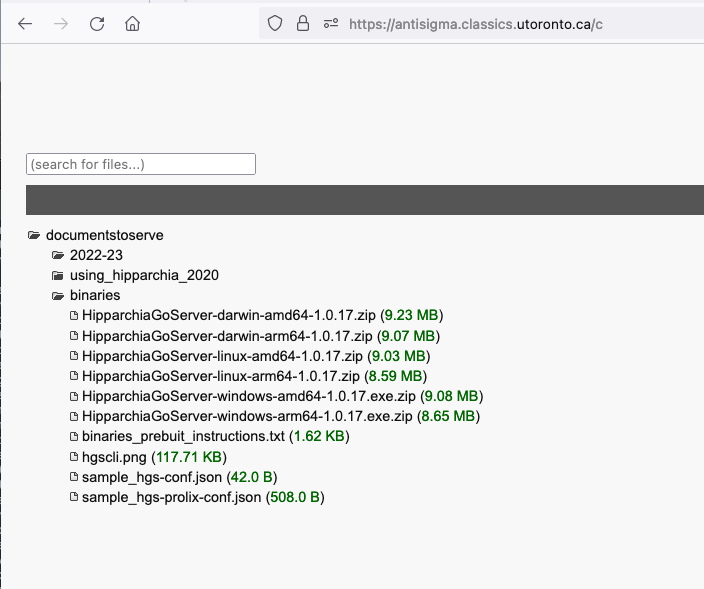
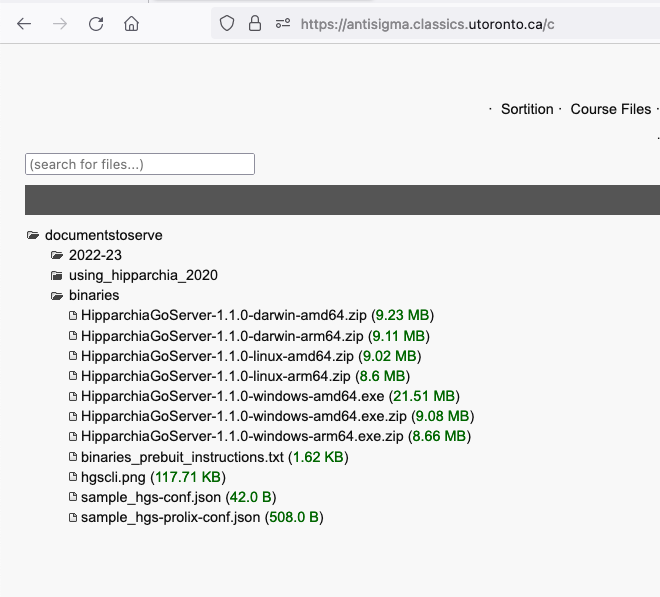
image update and corrections to instructions

diff --git a/initializedb.go b/initializedb.go
@@ -82,8 +82,9 @@ func findpsql() string {
 func hipparchiaDBexists(bindir string) bool {
 	if runtime.GOOS == "windows" {
 		msg("Self-initialization has not (yet?) been implemented for windows.", MSGCRIT)
-		msg("You need to follow the directions in the INSTALLATION file on github", MSGCRIT)
+		msg("If the database needs loading follow the directions in the INSTALLATION file on github", MSGCRIT)
 		msg("See https://github.com/e-gun/HipparchiaGoServer", MSGCRIT)
+		msg("Otherwise quit and relaunch", MSGCRIT)
 		// hang; do not exit because that will close the window and kill the message
 		for {
 		}

diff --git a/README.md b/README.md
@@ -41,8 +41,9 @@
 #### some selftest times
 * 64s on a mac studio
 * 113s on 6 cores of an intel 9900k running a virtualized ubuntu
+* 154s on 6 cores of apple silicon (m1) virtualizing macos
 * 349s on a mac mini 2018
-* 483s on 6 cores of apple silicon virtualizing windows 11 arm
+* 483s on 6 cores of apple silicon (m1) virtualizing windows 11 arm
 * 1144s (ouch) on a 2017 MacBook w/ 1.3GHz Core i5
 
 ![workflow](gitimg/hipparchia_workflow.svg)
@@ -51,17 +52,17 @@
 ```
 % cloc *go
 
-      33 text files.
-      33 unique files.                              
+      34 text files.
+      34 unique files.                              
        0 files ignored.
 
-github.com/AlDanial/cloc v 1.96  T=0.03 s (1161.9 files/s, 446516.4 lines/s)
+github.com/AlDanial/cloc v 1.96  T=0.03 s (1163.9 files/s, 440449.8 lines/s)
 -------------------------------------------------------------------------------
 Language                     files          blank        comment           code
 -------------------------------------------------------------------------------
-Go                              33           1907           1746           9029
+Go                              34           1940           1755           9171
 -------------------------------------------------------------------------------
-SUM:                            33           1907           1746           9029
+SUM:                            34           1940           1755           9171
 -------------------------------------------------------------------------------
 
 ```

diff --git a/INSTRUCTIONS/INSTALLATION_MACOS_RECOMMENDED.md b/INSTRUCTIONS/INSTALLATION_MACOS_RECOMMENDED.md
@@ -24,13 +24,13 @@
 
 ### [B] acquire `HipparchiaGoServer` and launch it
 
-1. You can build `HipparchiaGoServer` yourself with the files in this repository. Or you can grab a pre-built binary. Download the correct binary. Intel Macs: `-darwin-amd64-` Apple Silicon: `-darwin-arm64-`
+1. You can build `HipparchiaGoServer` yourself with the files in this repository. Or you can grab a pre-built binary. Download the correct binary. Intel Macs: `darwin-amd64` Apple Silicon: `darwin-arm64`
 
 ![inst12](../gitimg/windows/16_getbinary.png)
 
-2. If you download a file like `HipparchiaGoServer-darwin-arm64-1.0.18.zip`, it needs to be UNZIPPED. Double-clicking will do that. You will then see something like `HipparchiaGoServer-darwin-arm64-1.0.18` in the same folder.
+2. If you download a file like `HipparchiaGoServer-1.1.0-darwin-amd64.zip`, it needs to be UNZIPPED. Double-clicking will do that. You will then see something like `HipparchiaGoServer-1.1.0-darwin-amd64` in the same folder.
 
-3. This file needs to be RENAMED: `HipparchiaGoServer-darwin-arm64-1.0.18` --> `HipparchiaGoServer`
+3. This file needs to be RENAMED: `HipparchiaGoServer-1.1.0-darwin-amd64` --> `HipparchiaGoServer`
 
    ![inst12](../gitimg/macos_homebrew/12_renamea.png)
 

diff --git a/INSTRUCTIONS/INSTALLATION_MACOS_HOMEBREW.md b/INSTRUCTIONS/INSTALLATION_MACOS_HOMEBREW.md
@@ -64,9 +64,9 @@ You also want to start the server: `brew services restart postgresql@15`
 
 ![inst12](../gitimg/windows/16_getbinary.png)
 
-2. If you download a file like `HipparchiaGoServer-darwin-arm64-1.0.18.zip`, it needs to be UNZIPPED. Double-clicking will do that. You will then see something like `HipparchiaGoServer-darwin-arm64-1.0.18` in the same folder.
+2. If you download a file like `HipparchiaGoServer-1.1.0-darwin-amd64.zip`, it needs to be UNZIPPED. Double-clicking will do that. You will then see something like `HipparchiaGoServer-darwin-arm64-1.0.18` in the same folder.
 
-3. This file needs to be RENAMED: `HipparchiaGoServer-darwin-arm64-1.0.18` --> `HipparchiaGoServer`
+3. This file needs to be RENAMED: `HipparchiaGoServer-1.1.0-darwin-amd64` --> `HipparchiaGoServer`
 
    ![inst12](../gitimg/macos_homebrew/12_renamea.png)
 
